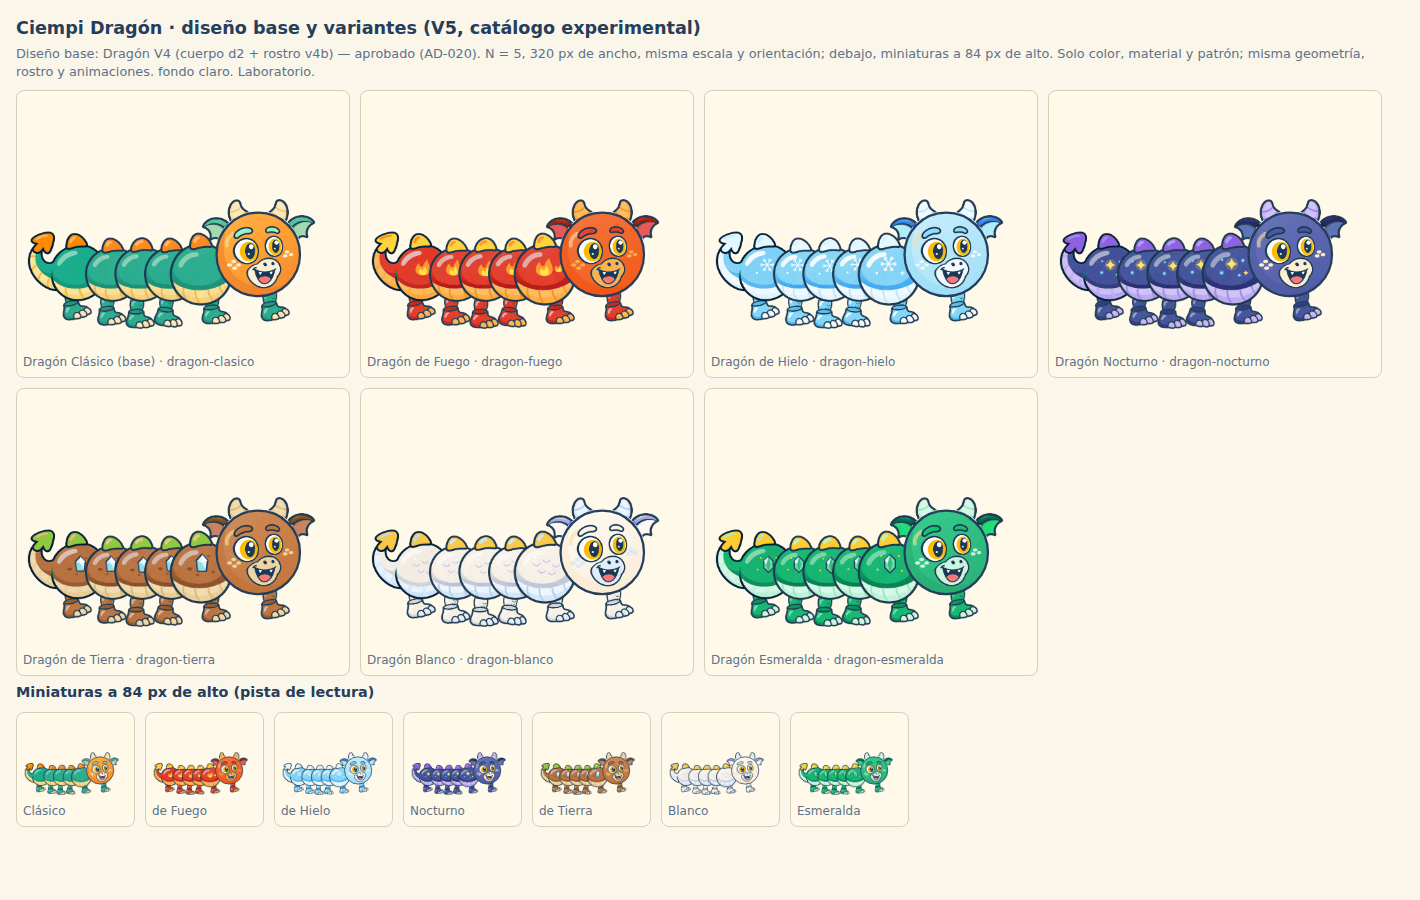
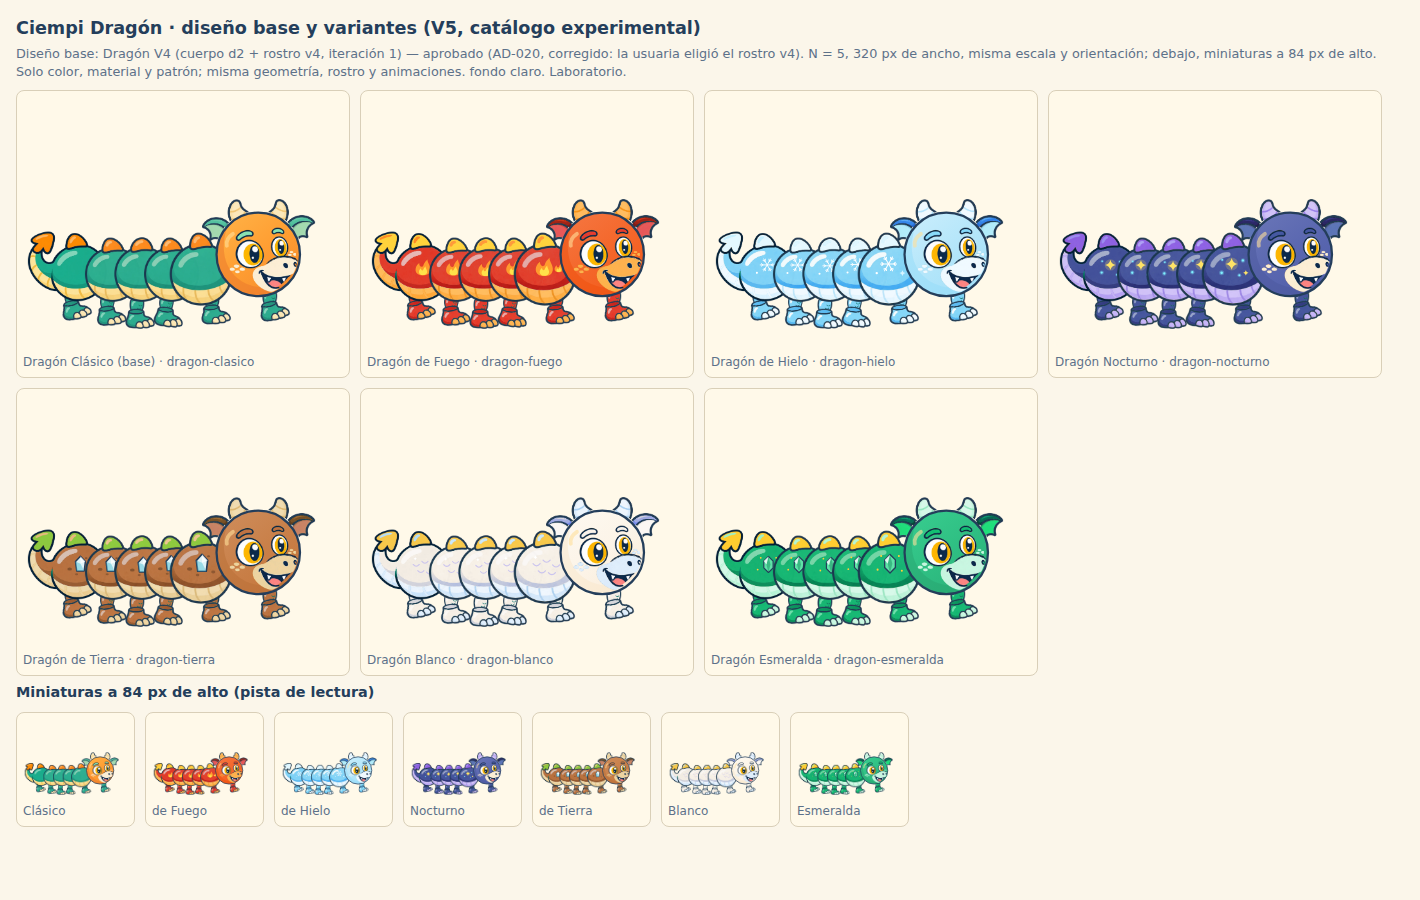
V5: Dragón con el rostro v4 (iteración 1) elegido por la usuaria en el diseño base y todas sus variantes (AD-021)

diff --git a/docs/rediseno-ciempi/laboratorio-transformaciones/variantes.js b/docs/rediseno-ciempi/laboratorio-transformaciones/variantes.js
@@ -26,7 +26,7 @@ const BANDAS = {
   // Torretas k3: anillos rosa/magenta y sus líneas rojas (h < 12) frente al caparazón naranja y el párpado (h 12–60).
   torreta: [[300, 360, 'anillo'], [0, 12, 'anillo'], [12, 60, 'borde']],
 }
-/** Qué claves se tiñen en el rostro IA v4b (los ojos nunca): hocico y cejas del Dragón, cejas de la Cuncuna. */
+/** Qué claves se tiñen en el rostro IA del diseño base (v4 en el Dragón, v4b en la Cuncuna; los ojos nunca). */
 // La Cuncuna no tiñe nada del rostro: ojos, cejas, mejillas y boca quedan como en el v4b aprobado.
 const CLAVES_ROSTRO = { dragon: ['escamas', 'vientre'], cuncuna: [] }
 /** Colores de la cabeza vectorial de la base (paleta clásica 0–2 y su sombra). */
@@ -42,7 +42,7 @@ const prod = (nombre) => ({ nombre, estado: 'experimental', precio: null })
 export const CATALOGO = {
   dragon: {
     nombre: 'Ciempi Dragón',
-    disenoBase: { id: 'dragon-v4', nombre: 'Dragón V4 (cuerpo d2 + rostro v4b)', estado: 'aprobado (AD-020)', rostro: 'v4b' },
+    disenoBase: { id: 'dragon-v4', nombre: 'Dragón V4 (cuerpo d2 + rostro v4, iteración 1)', estado: 'aprobado (AD-020, corregido: la usuaria eligió el rostro v4)', rostro: 'v4' },
     variantes: [
       { id: 'dragon-clasico', nombre: 'Dragón Clásico', base: true, producto: prod('Ciempi Dragón'), diferencias: 'Diseño base aprobado: escamas verde azulado, púas naranja, cabeza naranja.' },
       { id: 'dragon-fuego', nombre: 'Dragón de Fuego', producto: prod('Transformación Dragón de Fuego'),
@@ -250,12 +250,12 @@ export async function tenirVariante(url, bandasId, v, piezaId, claves = null) {
   return tintes.get(k)
 }
 
-// ── Rostro v4b teñido (Dragón y Cuncuna) ─────────────────────────────────────
+// ── Rostro del diseño base teñido (Dragón v4, Cuncuna v4b) ─────────────────────────────────────
 const rostros = new Map() // `${varianteId}|${carpeta}/${archivo}` → blob URL
 /** Tiñe (una vez) las capas «rostro» del v4b con la variante; los ojos no se tocan. */
 export async function prepararRostroVariante(especieId, v) {
   if (!CLAVES_ROSTRO[especieId] || !v.colores) return
-  const carpeta = especieId + '/v4b'
+  const carpeta = especieId + '/' + (CATALOGO[especieId]?.disenoBase?.rostro || 'v4b')
   const m = await (await fetch(new URL(`${carpeta}/manifiesto.json`, RECURSOS))).json()
   const claves = v.rostroClaves ?? CLAVES_ROSTRO[especieId]
   await Promise.all(Object.values(m.expresiones).map(async (e) => {

diff --git a/CIEMPI_ART_DIRECTION.md b/CIEMPI_ART_DIRECTION.md
@@ -272,3 +272,4 @@ Se admite PNG transparente cuando conserva mejor el acabado seleccionado. Debe d
 | AD-018 | 2026-11-03 | E08 «Comer» aprobada para integración experimental, desactivada en producción. Boca inicial `b03-sorprendido`; se conserva la variante con carcajada para comparar. Con máscaras que tapan la boca: no dibujar una segunda boca; usar una reacción alternativa (cabeza, cuerpo o efecto) sin alterar la apariencia equipada. | Usuario: «Apruebo la animación de comer para la integración experimental. Prefiero inicialmente la boca sorprendida». [Resultados](docs/expansion-ciempi/animacion/RESULTADOS.md) en la rama `expansion-v3-integracion`. La elección definitiva de la boca queda pendiente de la comparación en el laboratorio. |
 | AD-019 | 2026-11-04 | Ciempi Serpiente sin patas: aprobado. Calzado en la Serpiente: con un calzado equipado se muestra **una sola zapatilla, solo en la punta de la cola**, como gag; sin calzado, la cola queda tal cual. Las demás categorías siguen su compatibilidad normal. | Usuario: «lo apruebo lo de la serpiente pero podríamos ponerle una zapatilla en la cola y sería chistoso pero solo en la cola y solo 1». Rama `expansion-v4-arte` (T03). Solo laboratorio; el diseño de la Serpiente (rostro, cuerpo) sigue pendiente de aprobación. Registrado en la copia de la guía de la rama V4; falta sincronizar con la guía de `main`. |
 | AD-020 | 2026-11-04 | **Dragón V4 y Cuncuna V4 aprobados completos** (cuerpo + rostro v4b, el que mostraba el laboratorio entregado): cabeza, hocico/boca, ojos, 14 expresiones, antenas/penachos, cuerpo, patas, texturas, sombras, proporciones y crecimiento modular. Son el **diseño base** de sus familias; no se vuelven a corregir ni reemplazar. **Serpiente:** conservar todos los diseños (conceptos s1–s4 y propuestas de rostro) como variantes seleccionables con nombre propio; la zapatilla única en la cola forma parte del diseño aprobado (confirma AD-019). **Camaleón:** conservar todas las variantes, pero todas usan la construcción de ojos de **k3 «Atardecer»** (forma, volumen, elevación, relieve, perspectiva, proporción y posición); entre variantes cambian color, acabado y patrón. **Variantes nuevas** de Dragón (Fuego, Hielo, Nocturno, Tierra, Blanco, Esmeralda) y Cuncuna (Primavera, Frutilla, Arcoíris, Lavanda, Bosque, Dorada) sobre la geometría aprobada: color, patrón y material, nunca anatomía. Modelo: especie → diseño base → variante → producto futuro. | Usuario: «Apruebo el diseño V4 actual del Dragón… No quiero que vuelvas a corregirlos ni reemplazarlos»; «Apruebo el diseño V4 actual de la Cuncuna»; «La zapatilla de la cola me gusta y quiero conservarla»; «Los ojos del diseño K3 Atardecer son mis favoritos». Solo laboratorio y catálogo experimental: sin productos, precios, inventarios ni compras reales. Registrado en la copia de la guía de la rama V4. |
+| AD-021 | 2026-11-04 | Corrección de AD-020: el rostro aprobado del **Dragón** es el **v4 (iteración 1, hocico de perfil)**, no el v4b. El Dragón V4 aprobado = cuerpo d2 + rostro v4; todas sus variantes lo usan. La Cuncuna sigue con el v4b. El v4b del Dragón queda conservado como alternativa no elegida. | Usuario: «para el dragón dejaste la variante v4b y la que me gustó del dragón fue la variante v4, la iteración 1; todo lo demás está perfecto». Catálogo experimental `variantes.js` y `V5-variantes/lamina-dragones.png` (la versión con v4b queda como `lamina-dragones-r1-v4b.png`). |
